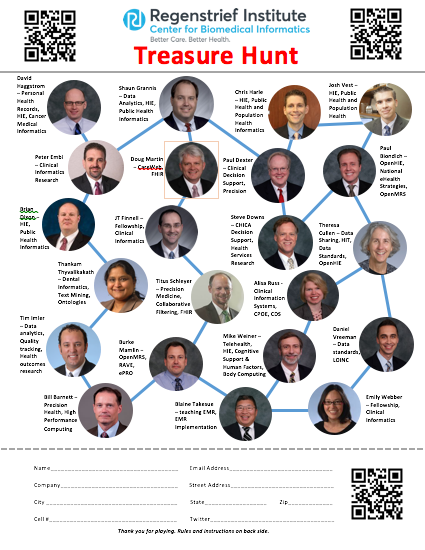
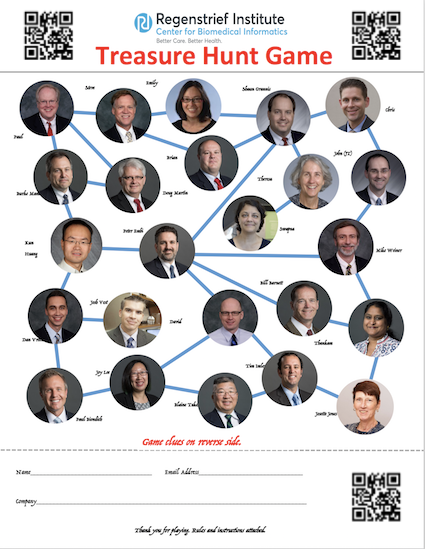
updates for 2017

diff --git a/README.md b/README.md
@@ -1,2 +1,2 @@
 # treasurehunt
-Treasure Hunt Game created for Regenstrief at AMIA 2016
+Treasure Hunt Game created for Regenstrief at AMIA
